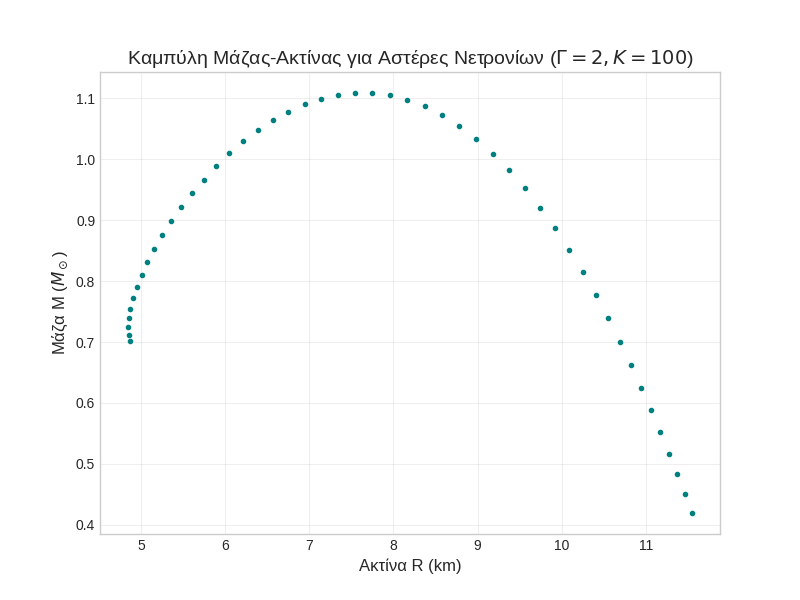
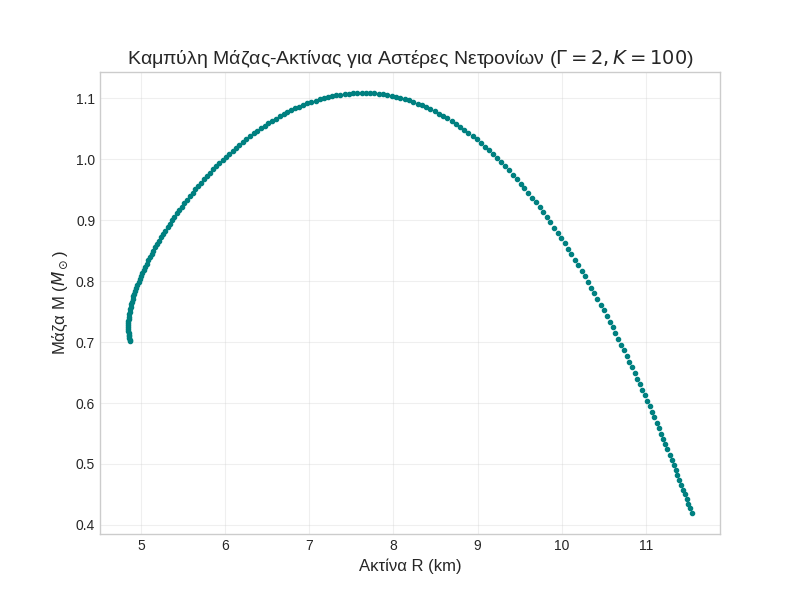
Minor additions in the TOV notebook to find the critical density, TODO: Shooting for the GR case

diff --git a/solvers/shooting.py b/solvers/shooting.py
@@ -260,3 +260,9 @@ def rayleigh_quotient(x, y1, y2, P_func, Q_func, W_func):
     W = W_func(x)
 
     return (simpson(y=P*y2**2 + Q*y1**2, x=x))/(simpson(y=W*y1**2, x=x))
+
+
+    #GENERAL RELATIVISTIC CASE
+    #DEFINE THE PULSATION SYSTEM USING THE FORM FROM MTW 
+
+    
